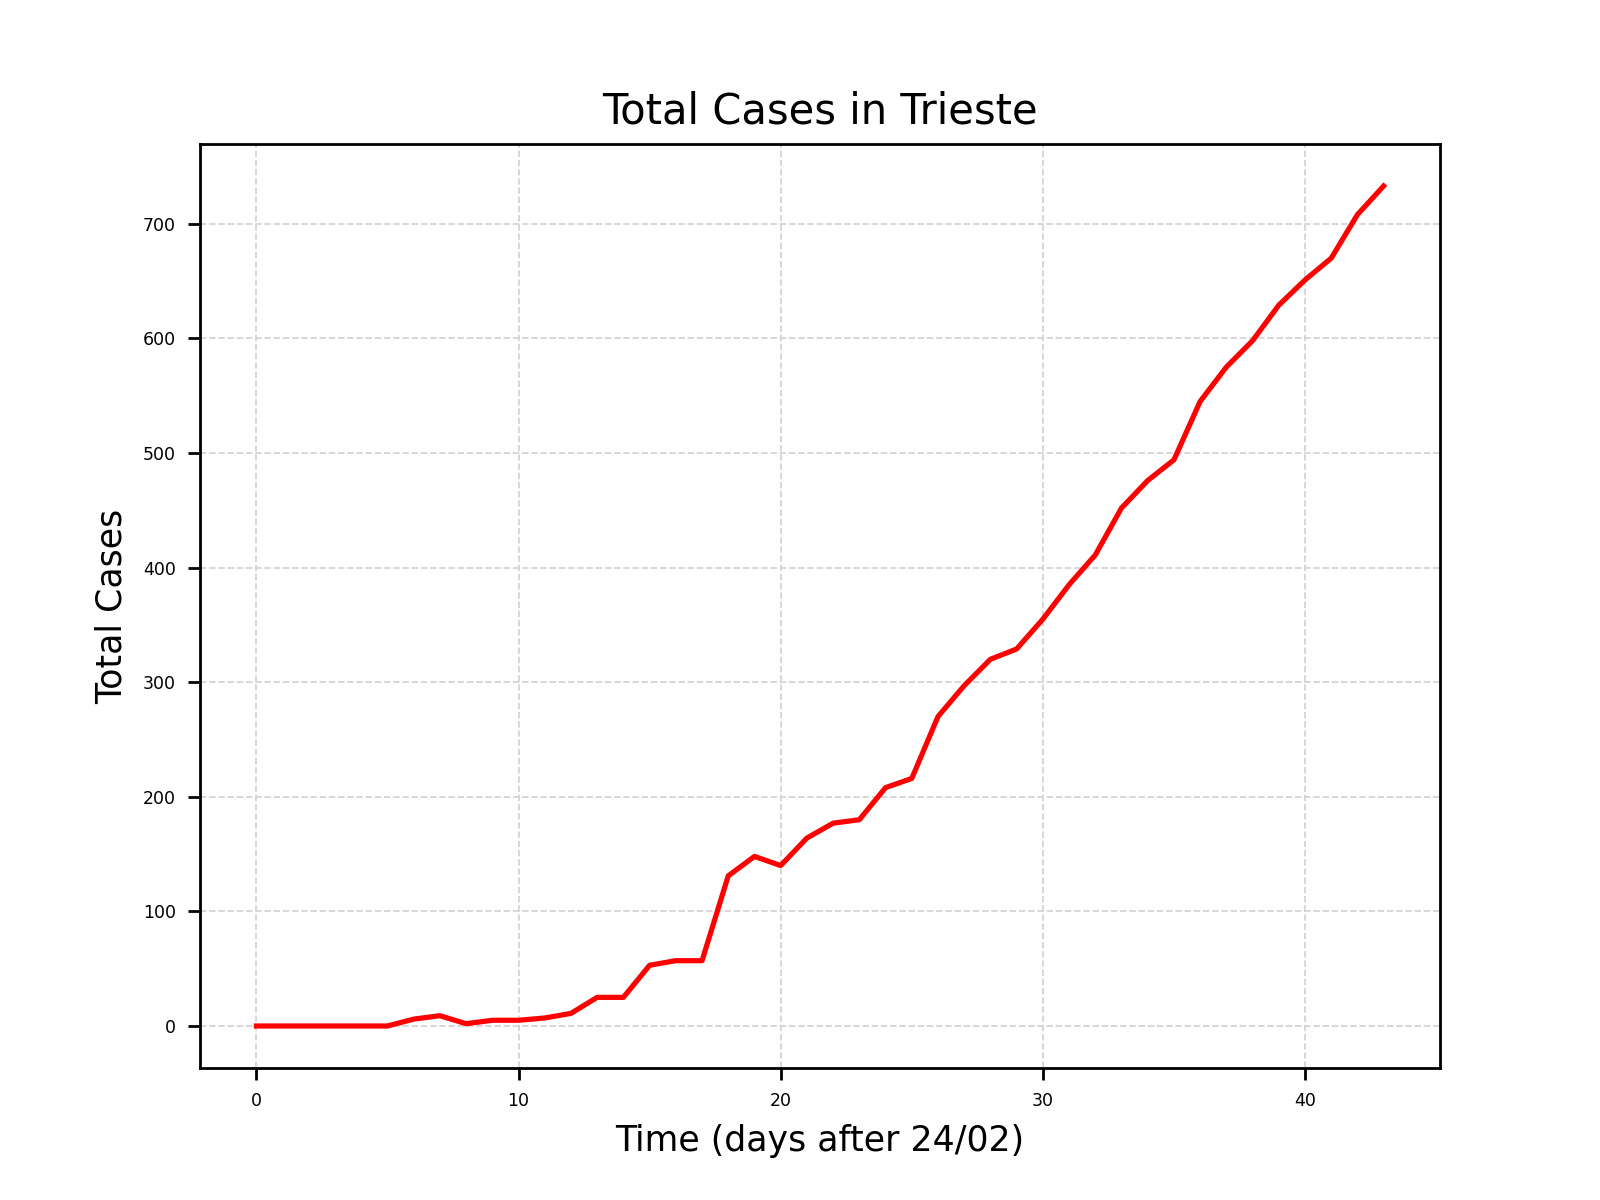
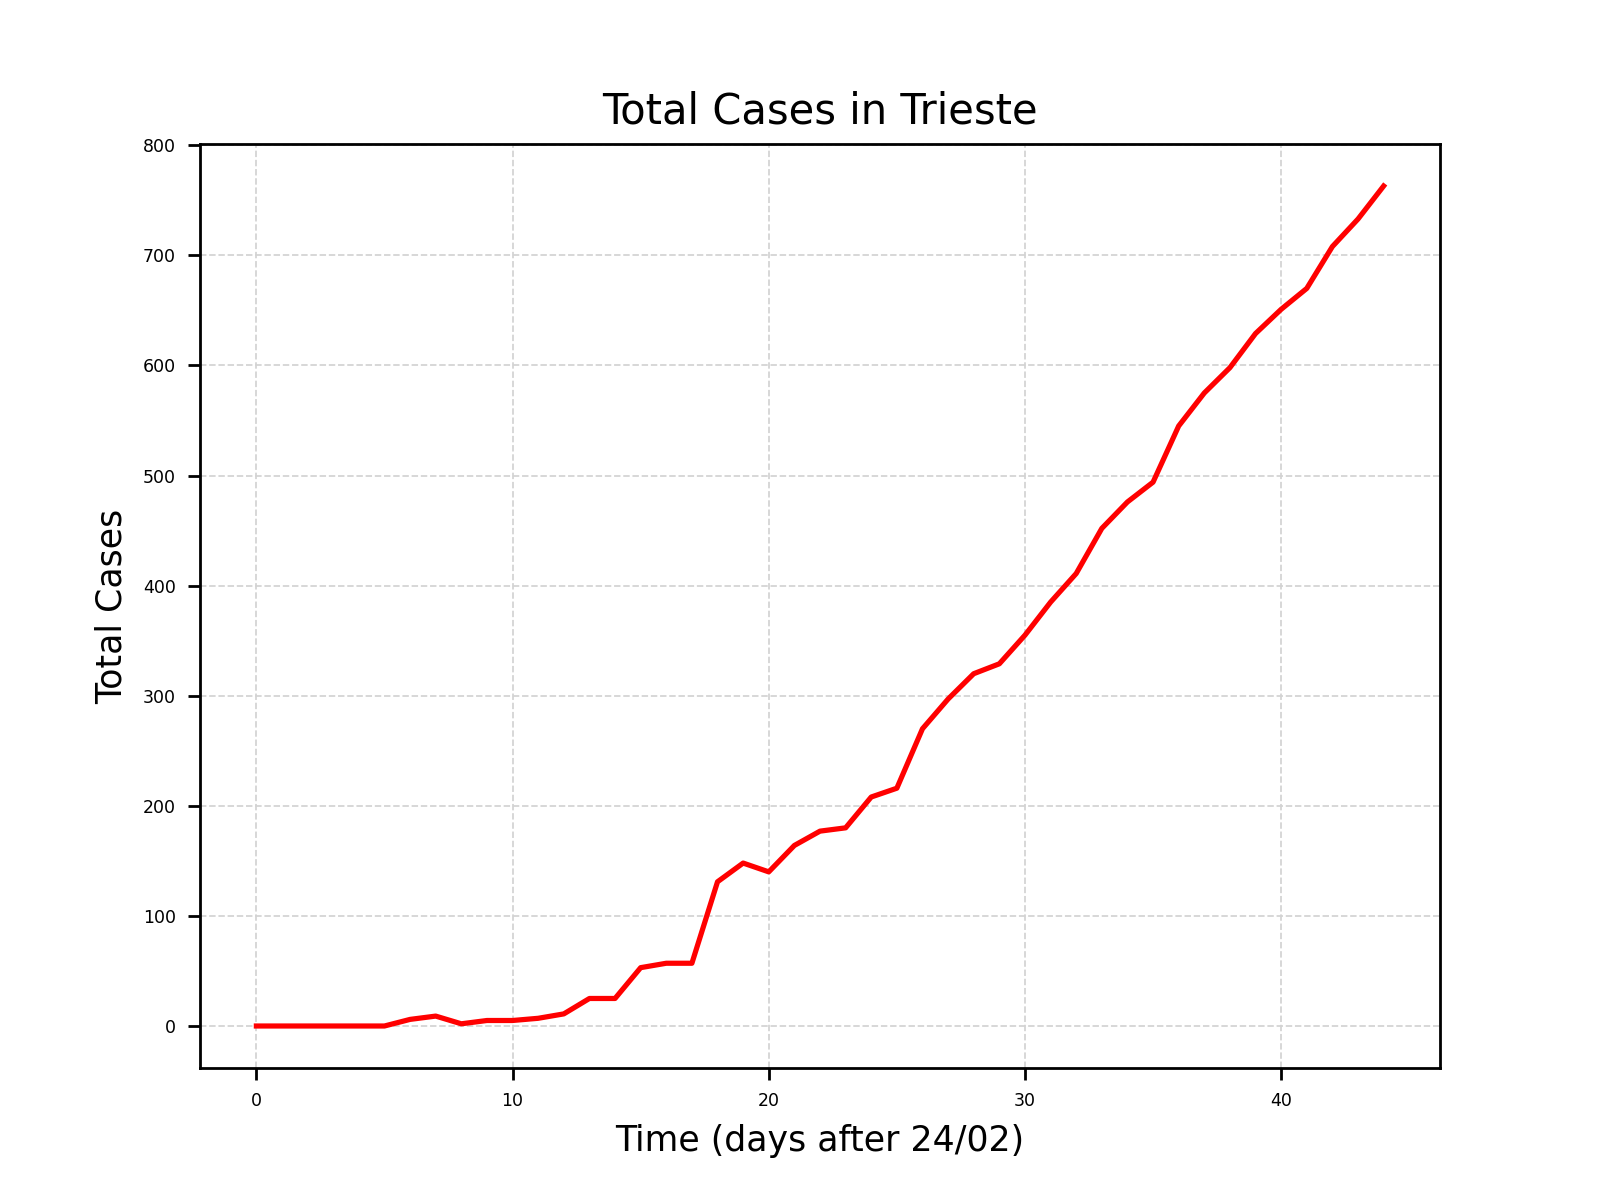
correct error in trieste.py script

diff --git a/trieste.py b/trieste.py
@@ -35,11 +35,11 @@ dataset.info()
 ################################################################################################################################
 
 # yesterday
-yesterday='2020-04-06T17:00:00'
+yesterday='2020-04-07T17:00:00'
 yesterday_tot_cases = dataset.loc[dataset['data']==yesterday][['denominazione_provincia','totale_casi']]
 
 # today
-last_date = '2020-04-07T17:00:00'
+last_date = '2020-04-08T17:00:00'
 last_tot_cases = dataset.loc[dataset['data']==last_date][['denominazione_provincia','totale_casi']]
 
 # trieste
